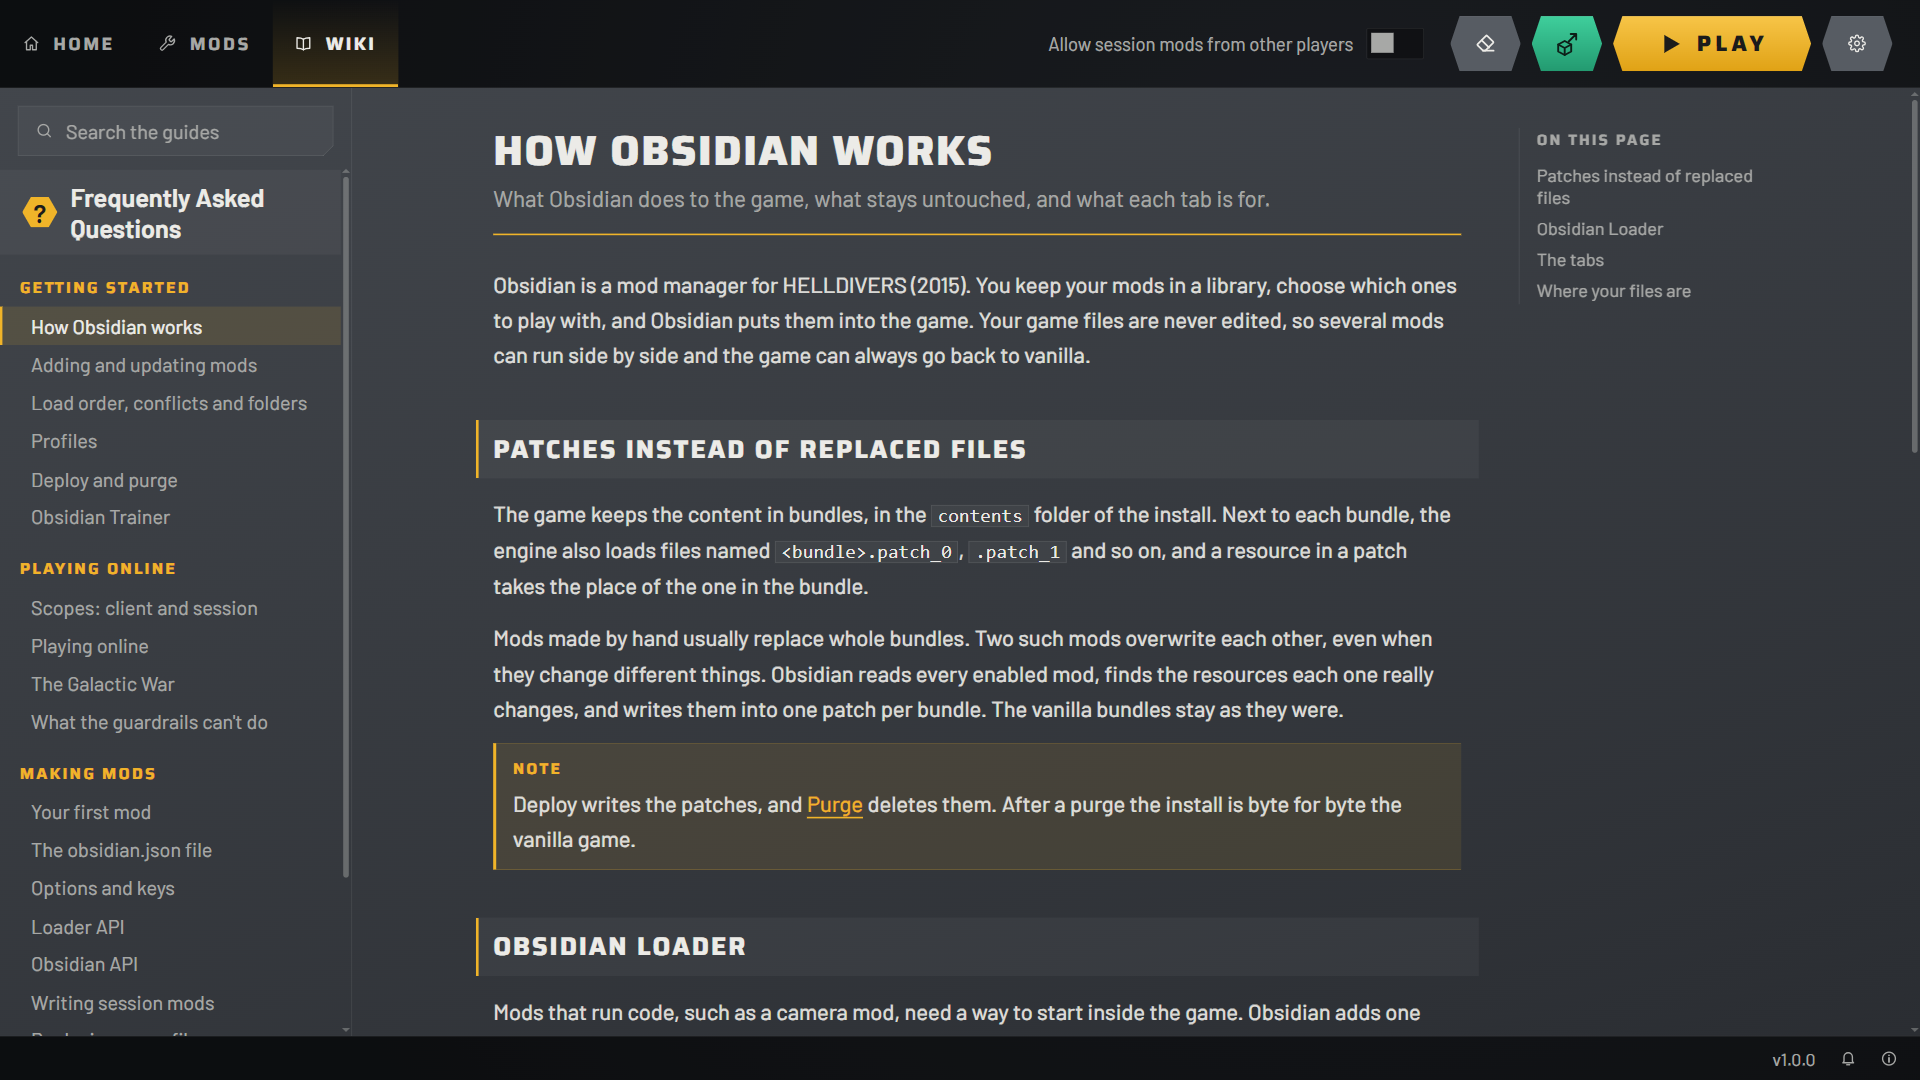
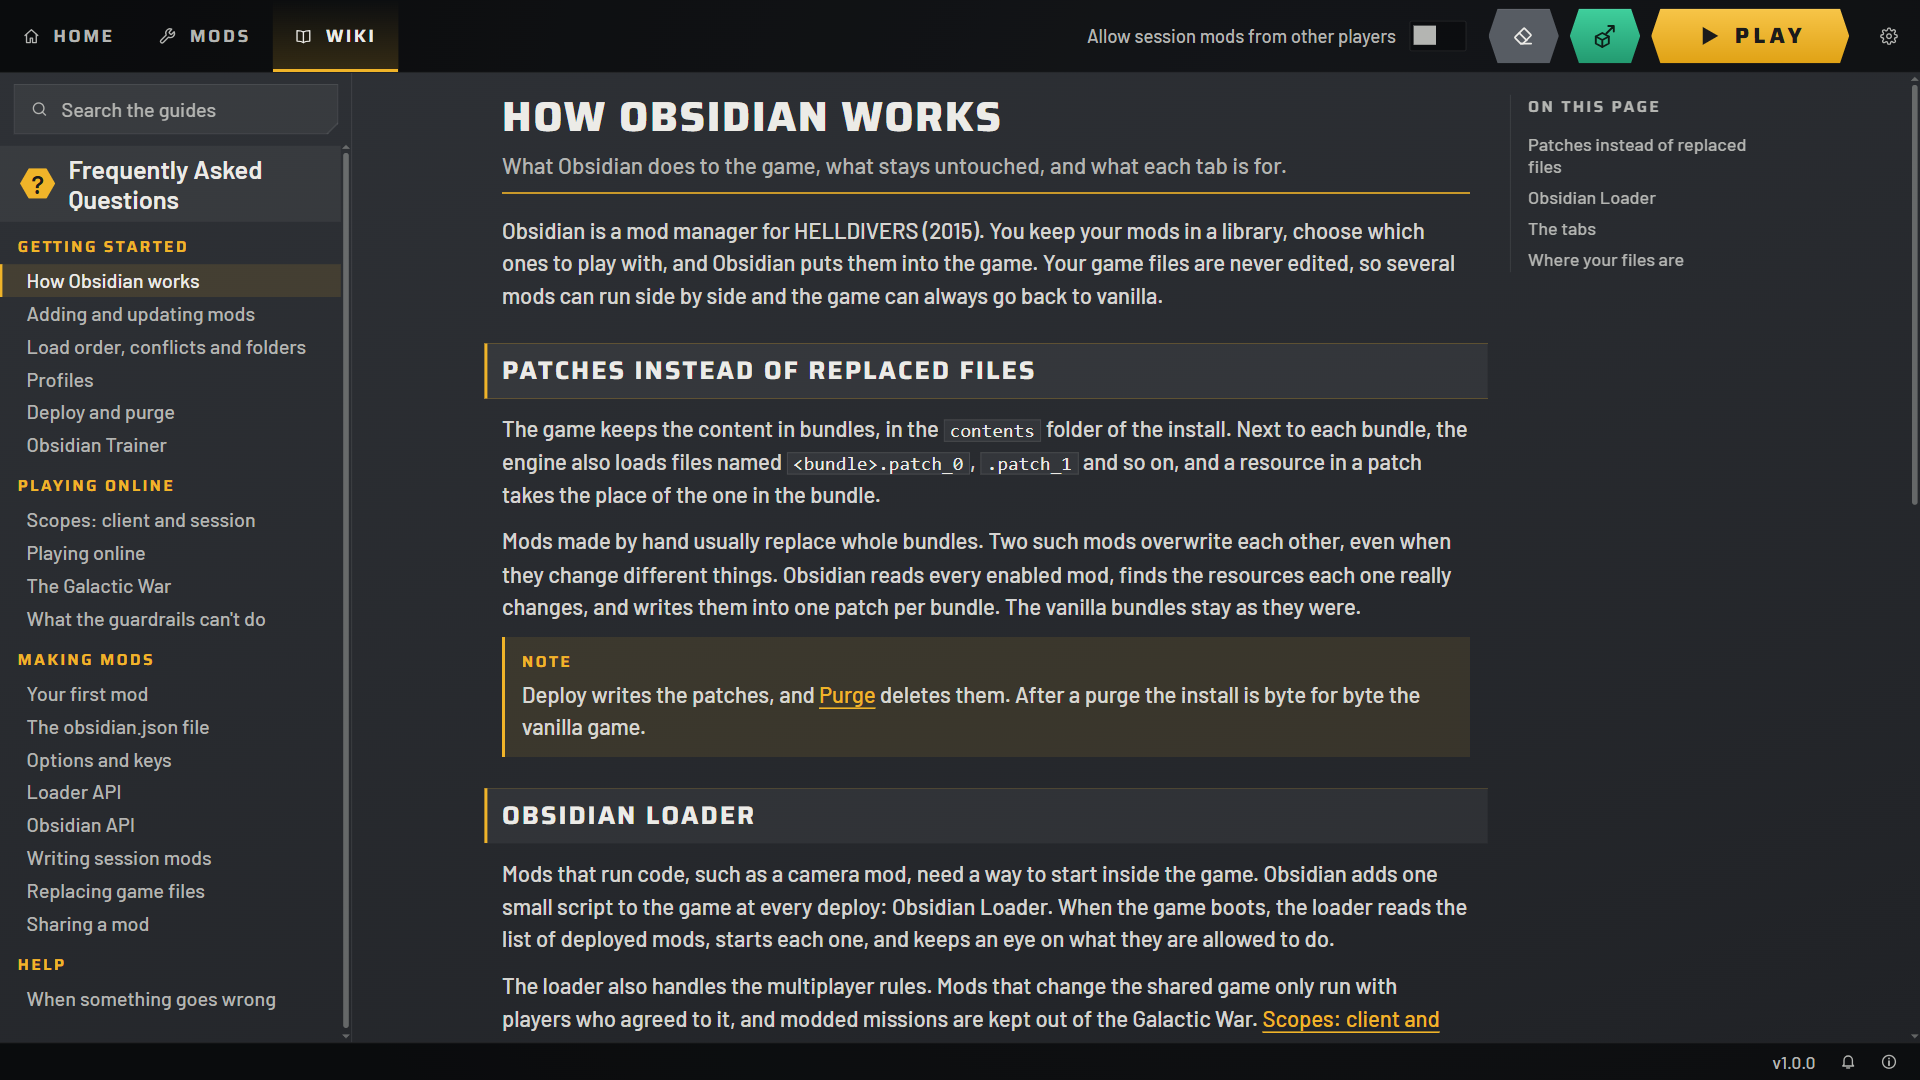
docs: retake the README shots and mention the Trainer's mouse

Changed region(s): [[0.0, 0.0, 1.0, 0.9778], [0.9062, 0.9778, 0.9688, 1.0]]

diff --git a/README.md b/README.md
@@ -70,7 +70,7 @@ Skips the intro, the login screen, war briefs and planet scanning, removes the b
 
 #### Obsidian Trainer
 
-An in-game menu, opened with F6, for your character, weapons, stratagems, enemies, missions and game values. It doesn't change XP or rank, doesn't unlock paid DLC and doesn't touch the Galactic War. It's a session mod, so it follows the same multiplayer rules as any other.
+An in-game window, opened with F6, for your character, weapons, stratagems, enemies, missions and game values. It works with the mouse or the keys, and you can move and resize it. It doesn't change XP or rank, doesn't unlock paid DLC and doesn't touch the Galactic War. It's a session mod, so it follows the same multiplayer rules as any other.
 
 #### Obsidian API
 
